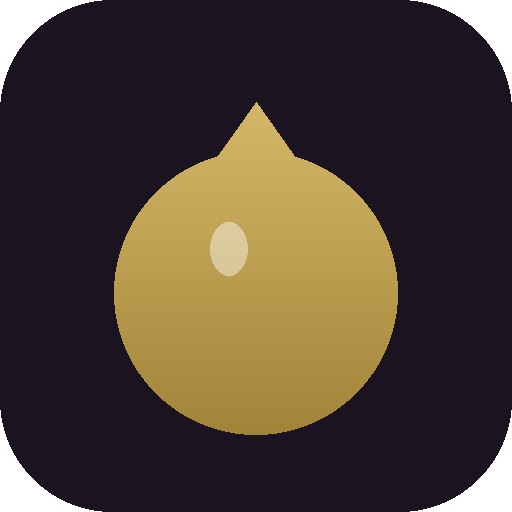
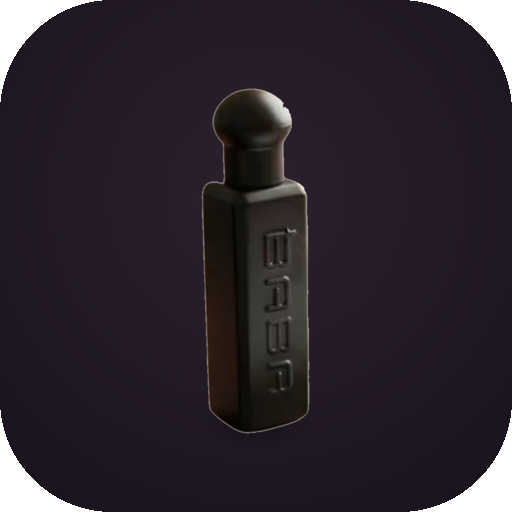
Add files via upload

Changed region(s): [[0.2188, 0.1562, 0.7812, 0.875]]

diff --git a/index.html b/index.html
@@ -50,11 +50,9 @@
     display:flex; align-items:center; justify-content:space-between;
   }
   .brand-row{ display:flex; align-items:center; gap:10px; }
-  .droplet{
-    width:24px; height:30px; flex:none;
-    background:linear-gradient(160deg, var(--gold-soft), var(--gold) 60%, #8f7328);
-    clip-path: path('M12 0 C12 0 24 17 24 23 A12 12 0 0 1 0 23 C0 17 12 0 12 0 Z');
-    box-shadow: 0 3px 10px rgba(201,162,75,0.35);
+  .brand-bottle{
+    height:34px; width:auto; flex:none;
+    filter:drop-shadow(0 3px 8px rgba(201,162,75,0.30));
   }
   header.top .brand-name{ font-family:'Fraunces',serif; font-size:16px; font-weight:600; line-height:1.1; }
   header.top .page-title{ color:var(--ink-dim); font-size:12.5px; text-align:right; }
@@ -240,7 +238,7 @@
 
 <header class="top">
   <div class="brand-row">
-    <div class="droplet"></div>
+    <img class="brand-bottle" src="./bottle-header.png" alt="Baba Parfum">
     <div class="brand-name">Baba Parfum</div>
   </div>
   <div class="page-title">Dashboard <b id="pageTitleTag">Ringkasan</b></div>
@@ -847,6 +845,10 @@ function renderActivity(){
 
 // ---------- CHARTS ----------
 function renderCharts(){
+  if(typeof Chart === 'undefined'){
+    console.warn('Chart.js belum termuat, grafik dilewati sementara');
+    return;
+  }
   const monthNames = ['Jan','Feb','Mar','Apr','Mei','Jun','Jul','Agu','Sep','Okt','Nov','Des'];
   const year = new Date().getFullYear();
   document.getElementById('monthlyYearLabel').textContent = `Tahun ${year}`;
@@ -896,19 +898,37 @@ function chartOptions(){
 }
 
 // ---------- INIT ----------
+function safeRun(fn){
+  try{ fn(); }catch(e){ console.error('render gagal:', fn.name, e); }
+}
+
 (async function init(){
   document.getElementById('saleDate').value = todayISO();
   document.getElementById('eDate').value = todayISO();
   await loadData();
-  renderProductSelect();
-  renderStockTable();
-  renderSalesTable();
-  renderExpenseTable();
-  renderStats();
-  renderCharts();
-  renderLowStock();
-  renderActivity();
-  renderCapital();
+  safeRun(renderProductSelect);
+  safeRun(renderStockTable);
+  safeRun(renderSalesTable);
+  safeRun(renderExpenseTable);
+  safeRun(renderStats);
+  safeRun(renderLowStock);
+  safeRun(renderActivity);
+  safeRun(renderCapital);
+  safeRun(renderCharts);
+
+  // coba render ulang grafik begitu Chart.js benar-benar siap (jaga-jaga koneksi lambat saat load pertama)
+  if(typeof Chart === 'undefined'){
+    let tries = 0;
+    const retryChart = setInterval(()=>{
+      tries++;
+      if(typeof Chart !== 'undefined'){
+        safeRun(renderCharts);
+        clearInterval(retryChart);
+      } else if(tries > 10){
+        clearInterval(retryChart);
+      }
+    }, 500);
+  }
 })();
 </script>
 <script>

diff --git a/sw.js b/sw.js
@@ -1,10 +1,11 @@
-const CACHE_NAME = 'baba-parfum-v1';
+const CACHE_NAME = 'baba-parfum-v2';
 const CORE_ASSETS = [
   './',
   './index.html',
   './manifest.json',
   './icon-192.png',
-  './icon-512.png'
+  './icon-512.png',
+  './bottle-header.png'
 ];
 
 self.addEventListener('install', (event) => {
